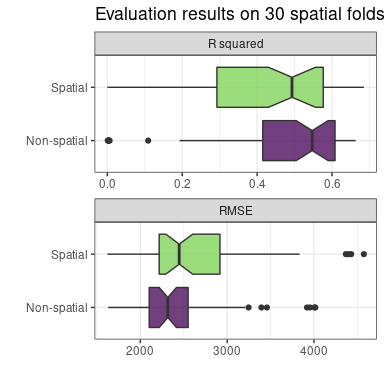
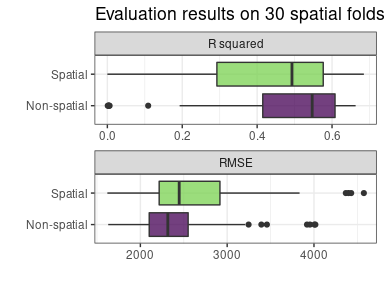
updated readme

diff --git a/README.md b/README.md
@@ -496,7 +496,8 @@ comparison <- rf_compare(
     `Spatial` = model.spatial
   ),
   xy = plant_richness_df[, c("x", "y")],
-  metrics = c("r.squared", "rmse")
+  metrics = c("r.squared", "rmse"),
+  notch = FALSE
   )
 ```
 
